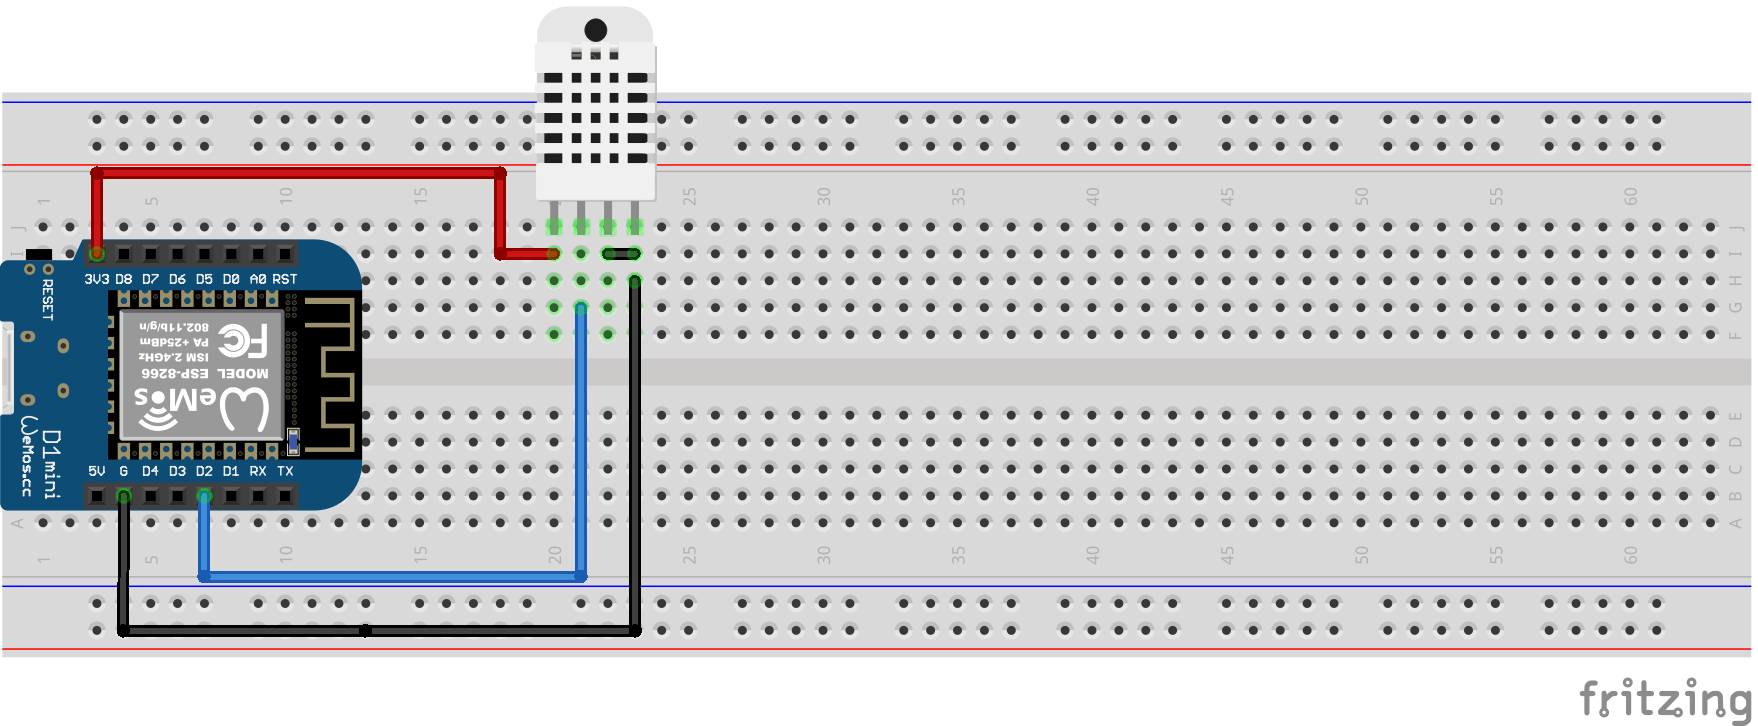
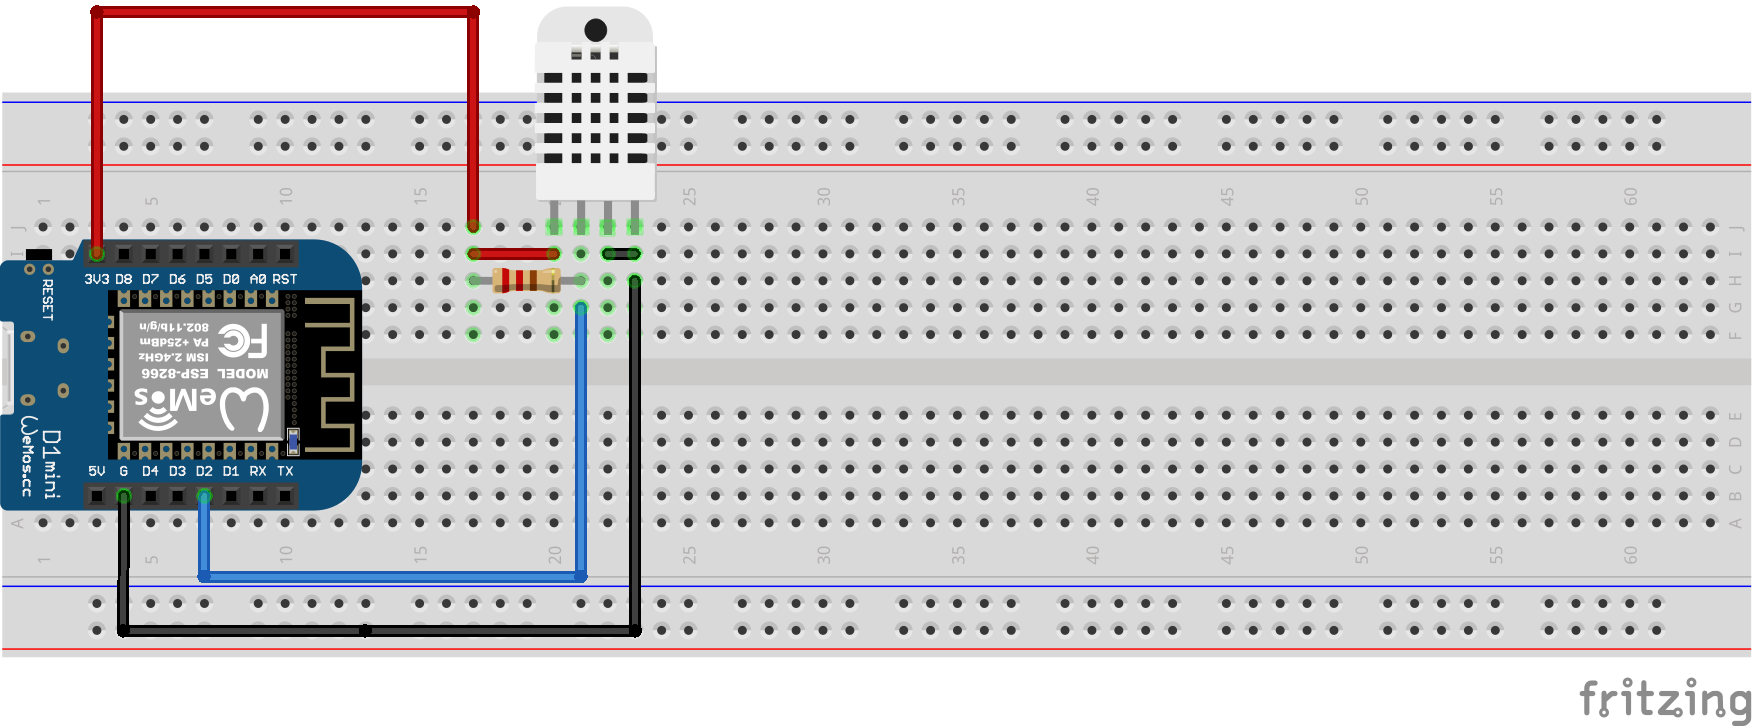
Pull_up resisor for DHT11

Changed region(s): [[0.0307, 0.0, 0.3379, 0.4848]]

diff --git a/index.md b/index.md
@@ -146,6 +146,8 @@ In this section, we will interface a DHT11 sensor to the ESP8266 and we will be 
 
 The DHT11 sensor needs to be interfaced to the ESP8266 as shown in the figure below: 
 
+![]({{"/images//DHT11_bb.png"|absolute_url}})
+
 # Interfacing the VOC sensor
 
 # Further Resources
